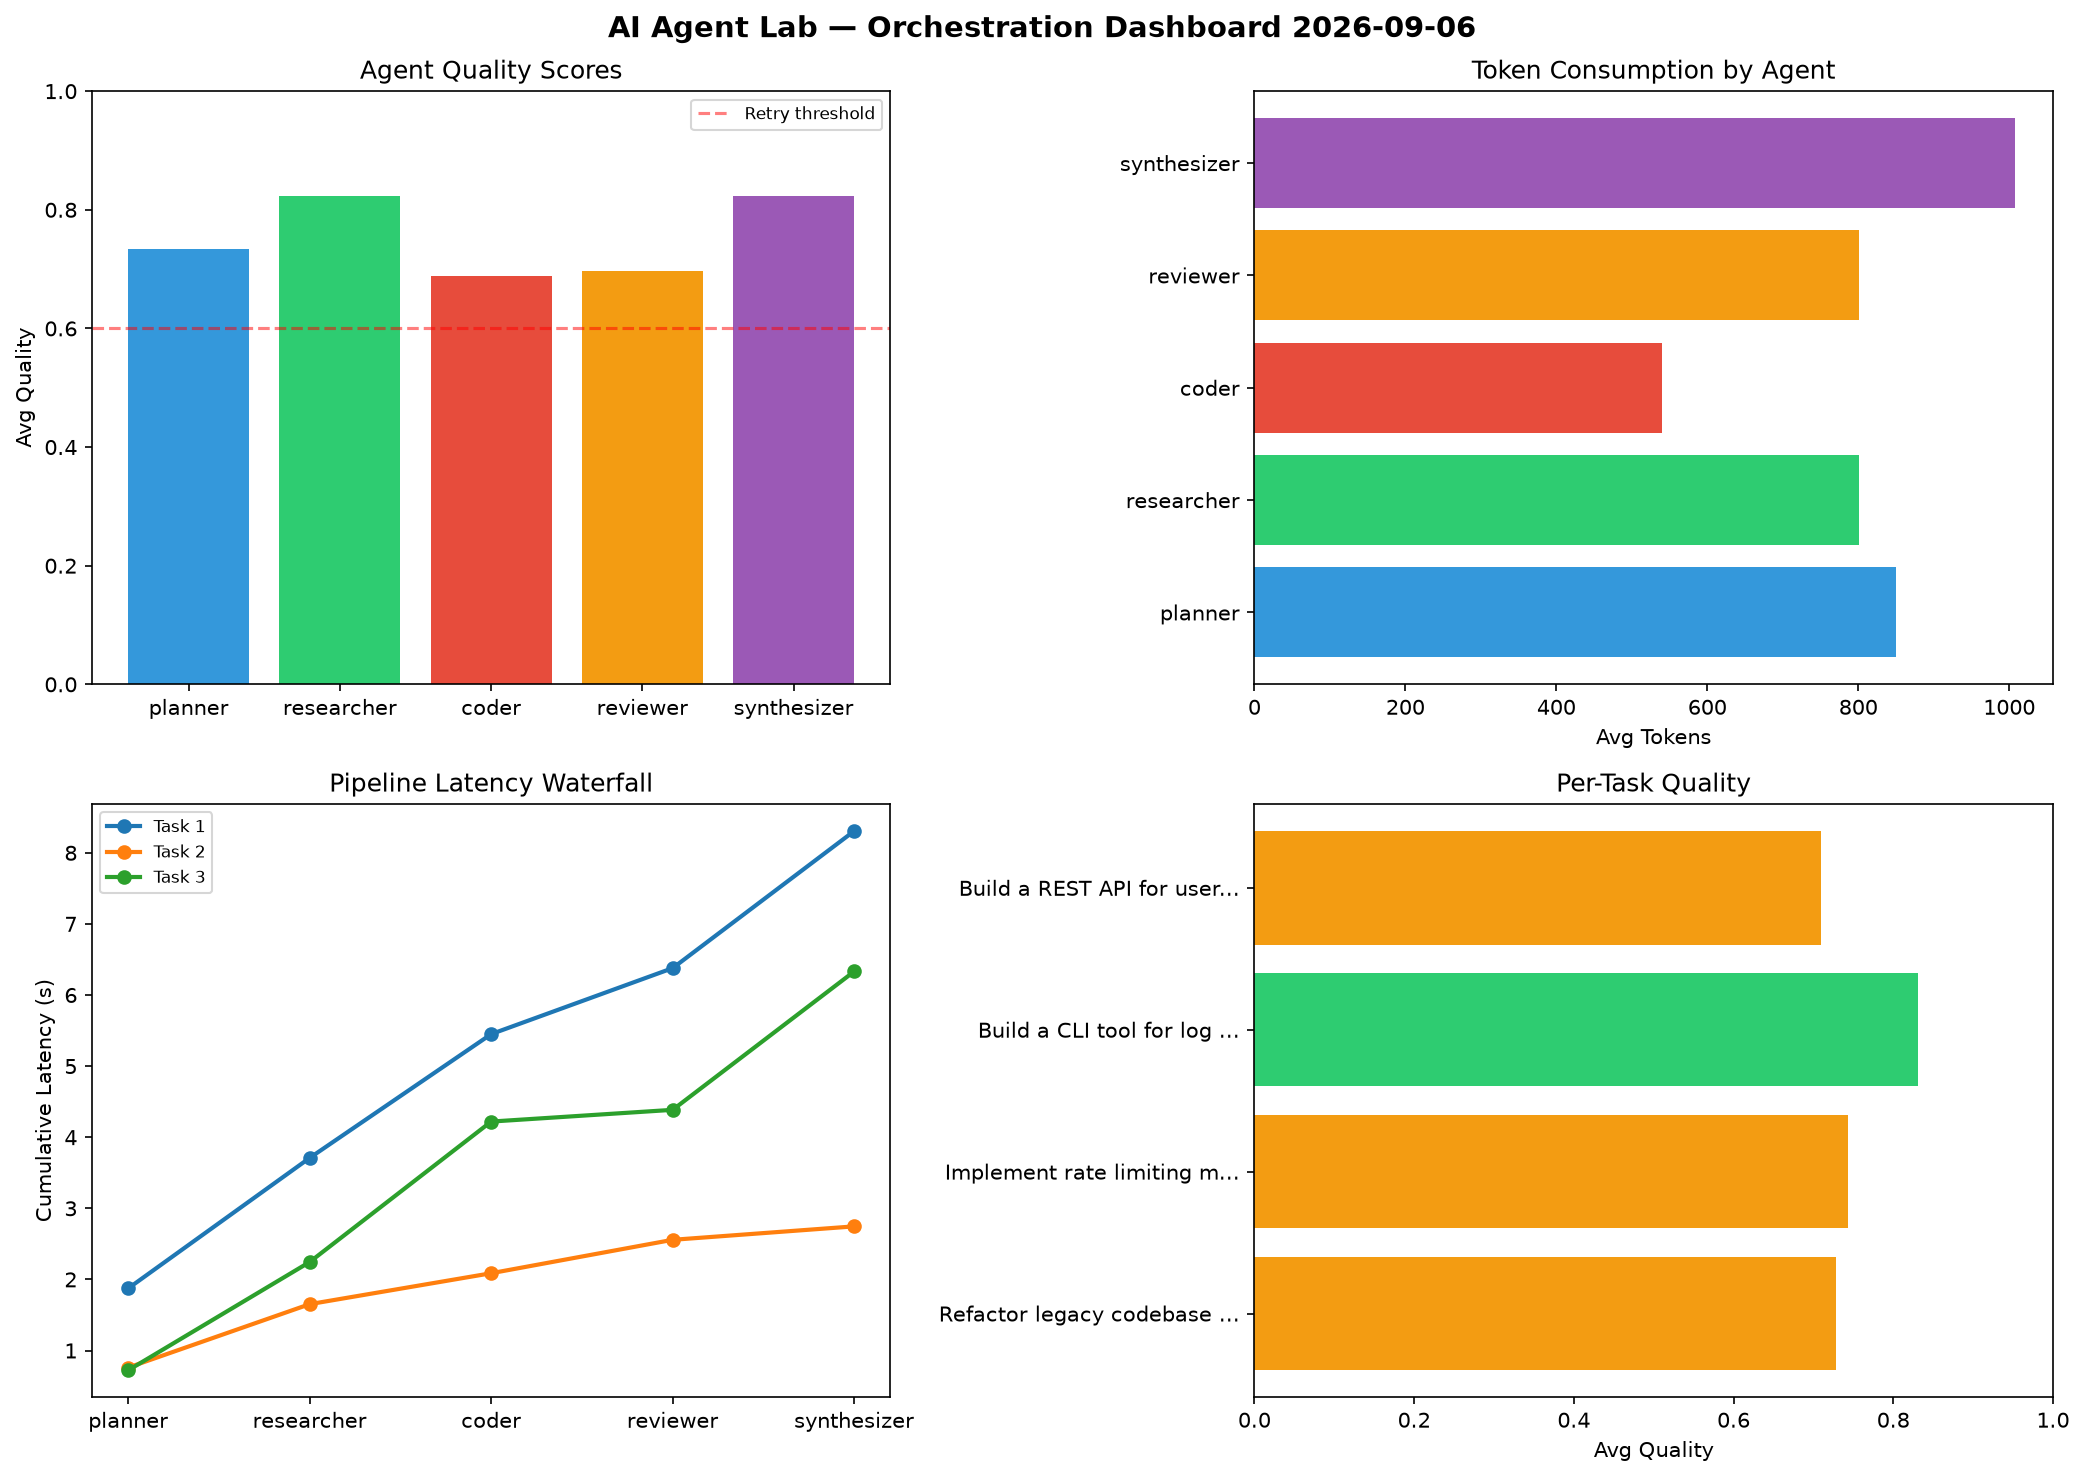
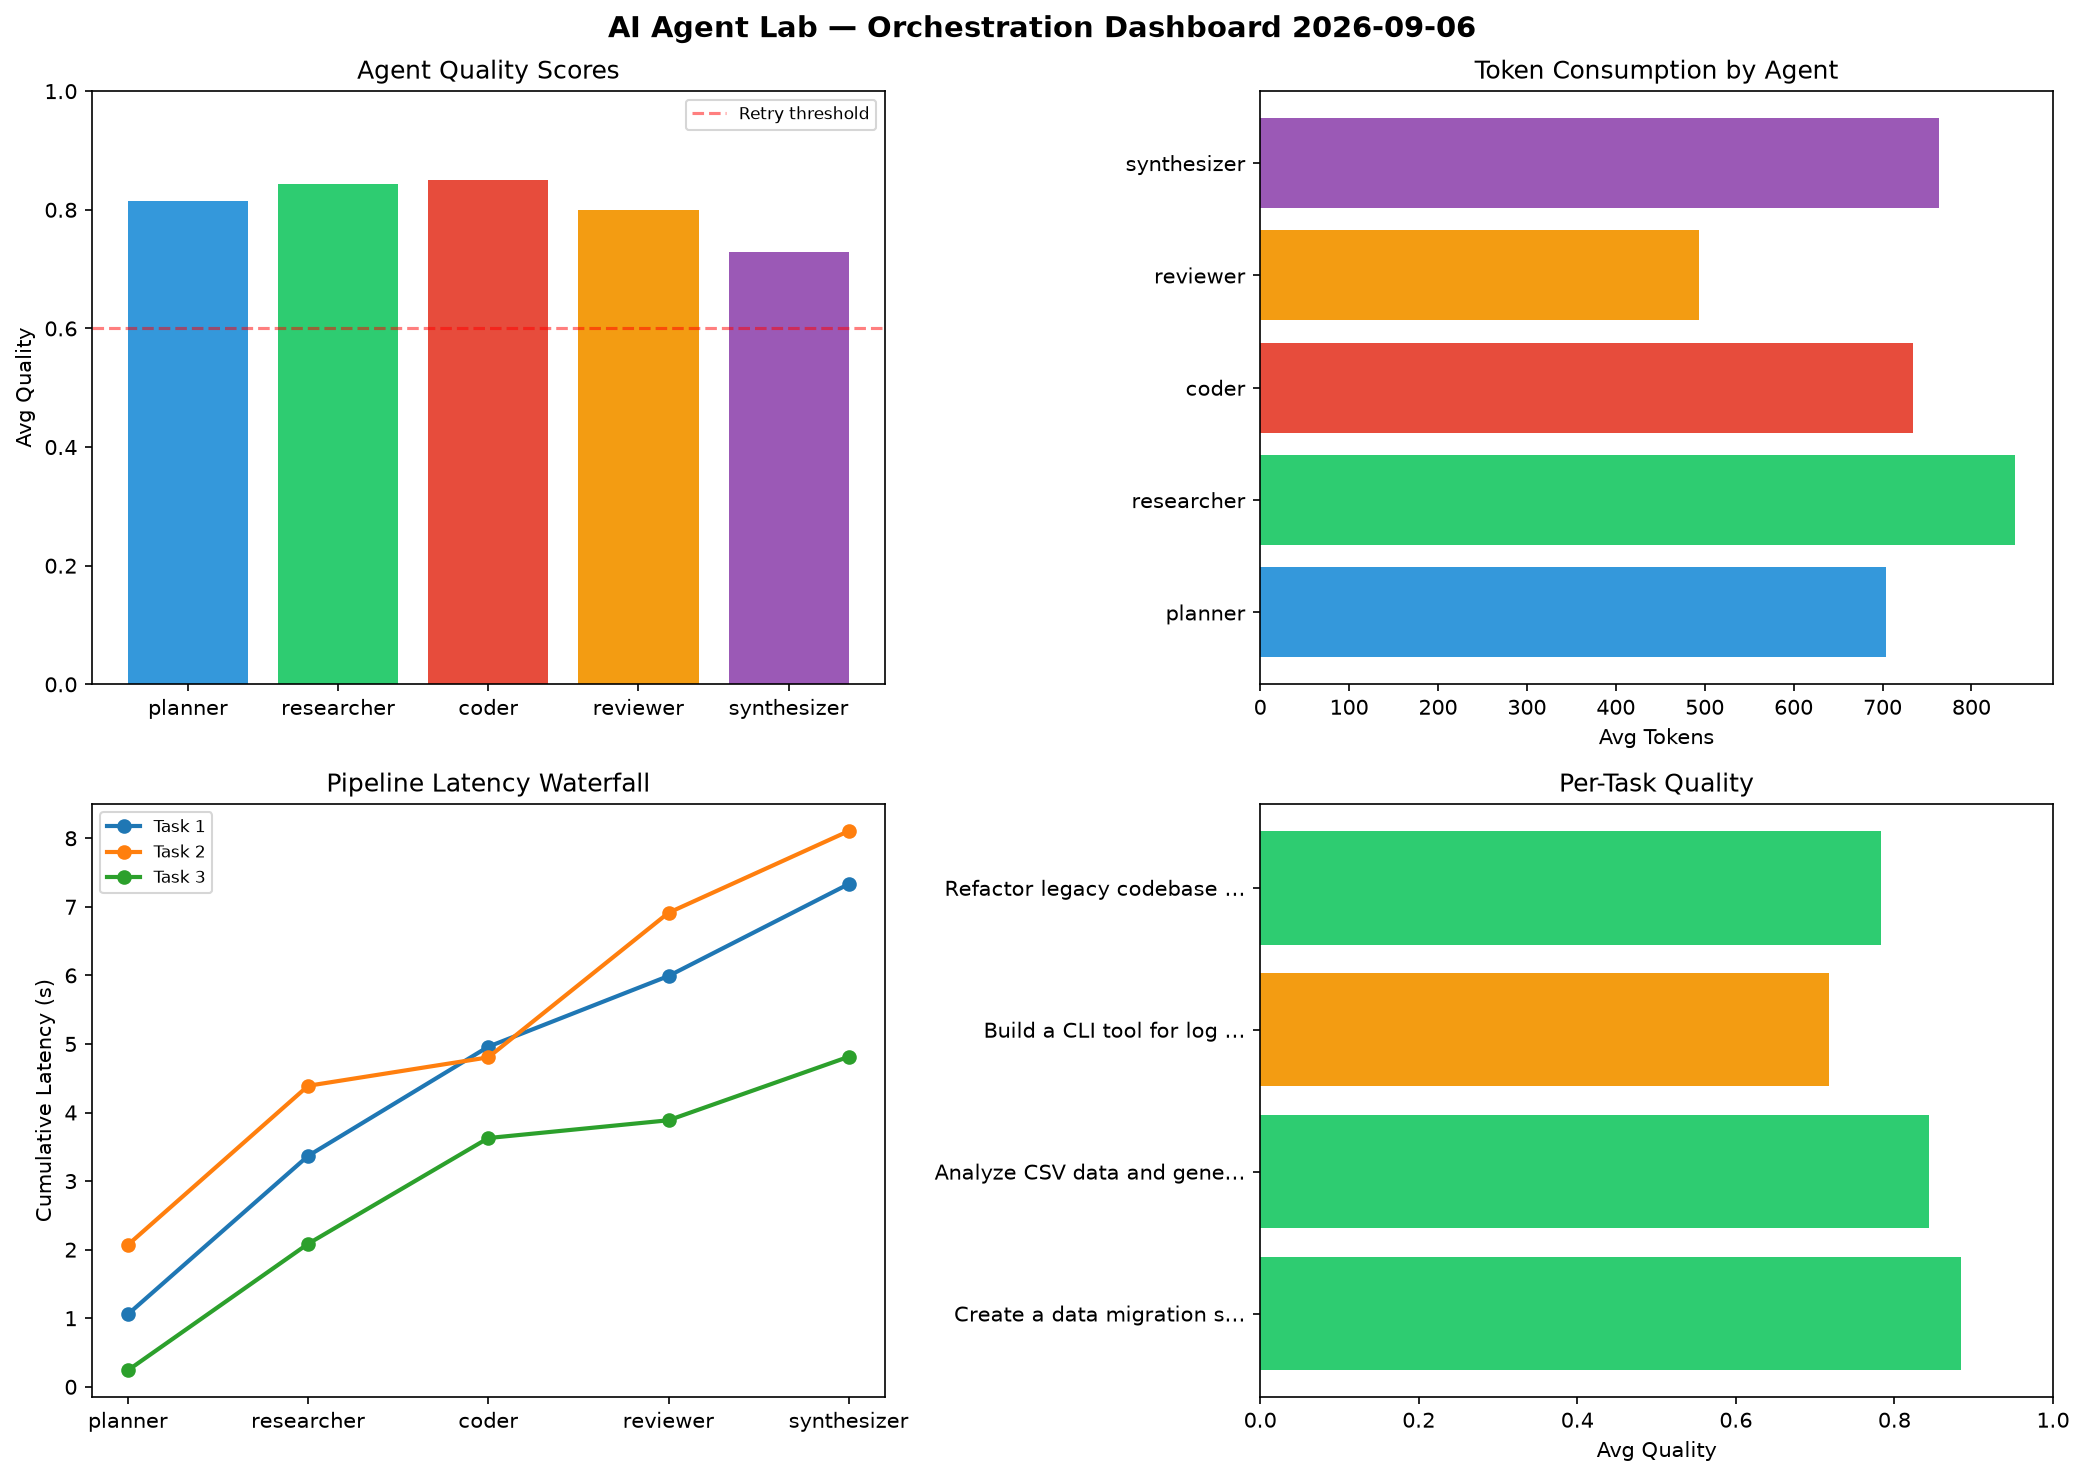
ai-agent-lab: orchestration run 2026-09-06T12:09

diff --git a/logs/2026-09-06.md b/logs/2026-09-06.md
@@ -1,6 +1,6 @@
 # AI Agent Lab — Orchestration Report 2026-09-06
 
-**Run ID:** `ea5c207979` | **Tasks:** 4 | **Avg Quality:** 0.753
+**Run ID:** `465df36ff2` | **Tasks:** 4 | **Avg Quality:** 0.807
 
 ![Dashboard](2026-09-06_dashboard.png)
 
@@ -8,52 +8,52 @@
 
 | Metric | Value |
 |--------|-------|
-| avg_latency | 5.638 |
-| total_tokens | 15999 |
-| avg_quality | 0.753 |
+| avg_latency | 6.951 |
+| total_tokens | 14175 |
+| avg_quality | 0.807 |
 
 ## Delta vs Yesterday
 
 | Metric | Today | Yesterday | Change |
 |--------|-------|-----------|--------|
-| avg_latency | 5.638 | 5.559 | 📈 1.4% |
-| total_tokens | 15999 | 14102 | 📈 13.5% |
-| avg_quality | 0.753 | 0.688 | 📈 9.4% |
+| avg_latency | 6.951 | 5.559 | 📈 25.0% |
+| total_tokens | 14175 | 14102 | 📈 0.5% |
+| avg_quality | 0.807 | 0.688 | 📈 17.3% |
 
 ## Pipeline Results
 
-### Refactor legacy codebase to use dependency injection
+### Create a data migration script for schema v2
 | Agent | Quality | Latency | Tokens | Status |
 |-------|---------|---------|--------|--------|
-| planner | 0.903 | 1.874s | 1079 | success |
-| researcher | 0.896 | 1.835s | 945 | success |
-| coder | 0.506 | 1.741s | 789 | needs_retry |
-| reviewer | 0.538 | 0.928s | 886 | needs_retry |
-| synthesizer | 0.797 | 1.928s | 1131 | success |
+| planner | 0.943 | 1.059s | 663 | success |
+| researcher | 0.95 | 2.309s | 1046 | success |
+| coder | 0.879 | 1.592s | 573 | success |
+| reviewer | 0.709 | 1.031s | 529 | success |
+| synthesizer | 0.94 | 1.341s | 1079 | success |
 
-### Implement rate limiting middleware
+### Analyze CSV data and generate statistical summary
 | Agent | Quality | Latency | Tokens | Status |
 |-------|---------|---------|--------|--------|
-| planner | 0.866 | 0.76s | 626 | success |
-| researcher | 0.915 | 0.892s | 447 | success |
-| coder | 0.535 | 0.435s | 312 | needs_retry |
-| reviewer | 0.554 | 0.47s | 674 | needs_retry |
-| synthesizer | 0.845 | 0.189s | 863 | success |
+| planner | 0.803 | 2.071s | 981 | success |
+| researcher | 0.802 | 2.319s | 759 | success |
+| coder | 0.979 | 0.415s | 337 | success |
+| reviewer | 0.871 | 2.108s | 347 | success |
+| synthesizer | 0.765 | 1.192s | 183 | success |
 
 ### Build a CLI tool for log analysis
 | Agent | Quality | Latency | Tokens | Status |
 |-------|---------|---------|--------|--------|
-| planner | 0.542 | 0.722s | 835 | needs_retry |
-| researcher | 0.955 | 1.523s | 913 | success |
-| coder | 0.955 | 1.975s | 754 | success |
-| reviewer | 0.951 | 0.165s | 791 | success |
-| synthesizer | 0.754 | 1.946s | 755 | success |
+| planner | 0.92 | 0.241s | 385 | success |
+| researcher | 0.628 | 1.845s | 452 | success |
+| coder | 0.677 | 1.542s | 886 | success |
+| reviewer | 0.851 | 0.259s | 439 | success |
+| synthesizer | 0.511 | 0.926s | 970 | needs_retry |
 
-### Build a REST API for user authentication
+### Refactor legacy codebase to use dependency injection
 | Agent | Quality | Latency | Tokens | Status |
 |-------|---------|---------|--------|--------|
-| planner | 0.622 | 0.82s | 858 | success |
-| researcher | 0.524 | 1.594s | 898 | needs_retry |
-| coder | 0.756 | 1.458s | 307 | success |
-| reviewer | 0.745 | 0.887s | 855 | success |
-| synthesizer | 0.898 | 0.409s | 1281 | success |
+| planner | 0.592 | 1.578s | 786 | needs_retry |
+| researcher | 0.994 | 1.745s | 1140 | success |
+| coder | 0.865 | 0.547s | 1143 | success |
+| reviewer | 0.766 | 1.596s | 657 | success |
+| synthesizer | 0.7 | 2.088s | 820 | success |
